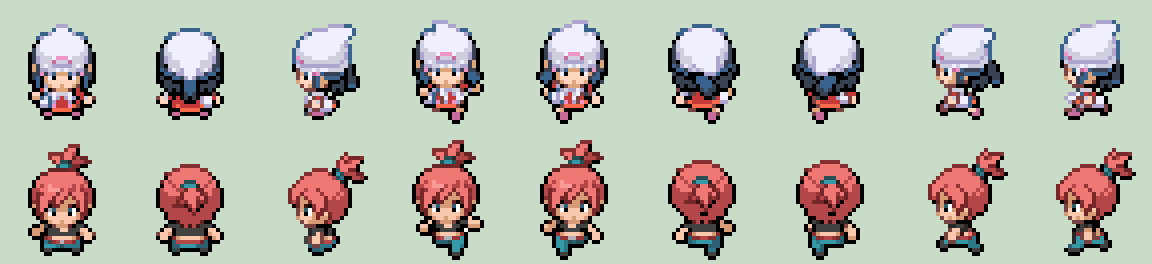
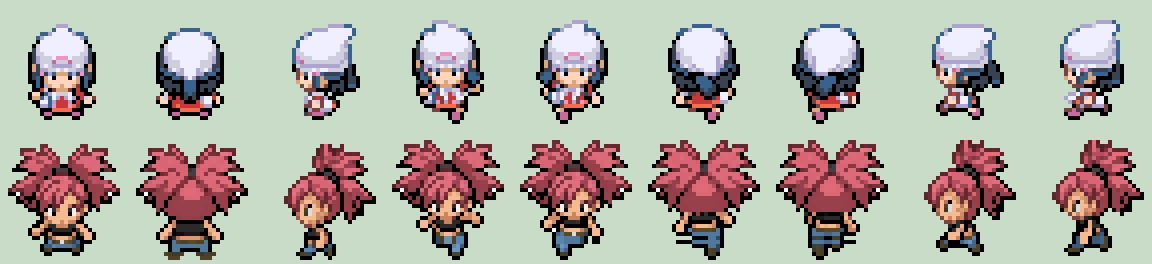
Fix Kabu battle height/back arm and Flannery field hair
Kabu front/back redone with Transfer outfit on the base battle sprites so his
height matches pt_m and the back has one arm; Flannery field sprites redone
with the game's Flannery NPC sprite as outfit image so the hair fans out.
Old versions kept as _v2.

Changed region(s): [[0.25, 0.5152, 1.0, 1.0], [0.0, 0.5455, 0.2188, 1.0], [0.8438, 0.9394, 0.875, 0.9697]]

diff --git a/assets_src/leg_fit/ow/METHOD.md b/assets_src/leg_fit/ow/METHOD.md
@@ -51,3 +51,14 @@ Kabu; kept as raw/lf_kabu_m_*_v1 and ow/raw/lf_kabu_m_*_v1. Redone with the game
 headband, black long-sleeve top with red-orange flames, white shorts with red marks, red and white long
 socks, brown shoes. Front pick c1 (c0 made him taller, hair at row 1, and changed the face); back and
 field first results.
+
+Fixes 2026-11-21 (경완: 민지 필드 머리 양쪽으로 뻗치게, 카브 배틀 키가 큼, 카브 뒷모습 팔 3개):
+- Kabu battle front/back: Edit image kept making him taller (hair top row 4-5 vs the cap at 13), so
+  both were redone with Transfer outfit on the 80x80 pt_m front and trb/pt_m back (outfit image = the
+  flame-uniform front, raw/lf_kabu_m_front_c2.png). Result raw/lf_kabu_m_battle_transfer.png (160x80);
+  front moved up 1px so the feet sit on the base row; top row 12 / 14 vs base 13. The back has only the
+  arm reaching to the ball. Previous versions raw/lf_kabu_m_*_v2.png.
+- Flannery field: Transfer outfit with the game's own Flannery NPC field sprite (gym/img/ow/flannery.png,
+  frames 0-2, native 16x32, ref/ow_flannery_outfit.png) as the outfit image -> hair fans out to both
+  sides. One hair-tip pixel at row 1 of side frame 2 removed so bobbed frames stay off row 0. Previous
+  version ow/raw/lf_flannery_f_*_v2.png. (PixelLab flags upscaled uploads; give it native size.)
